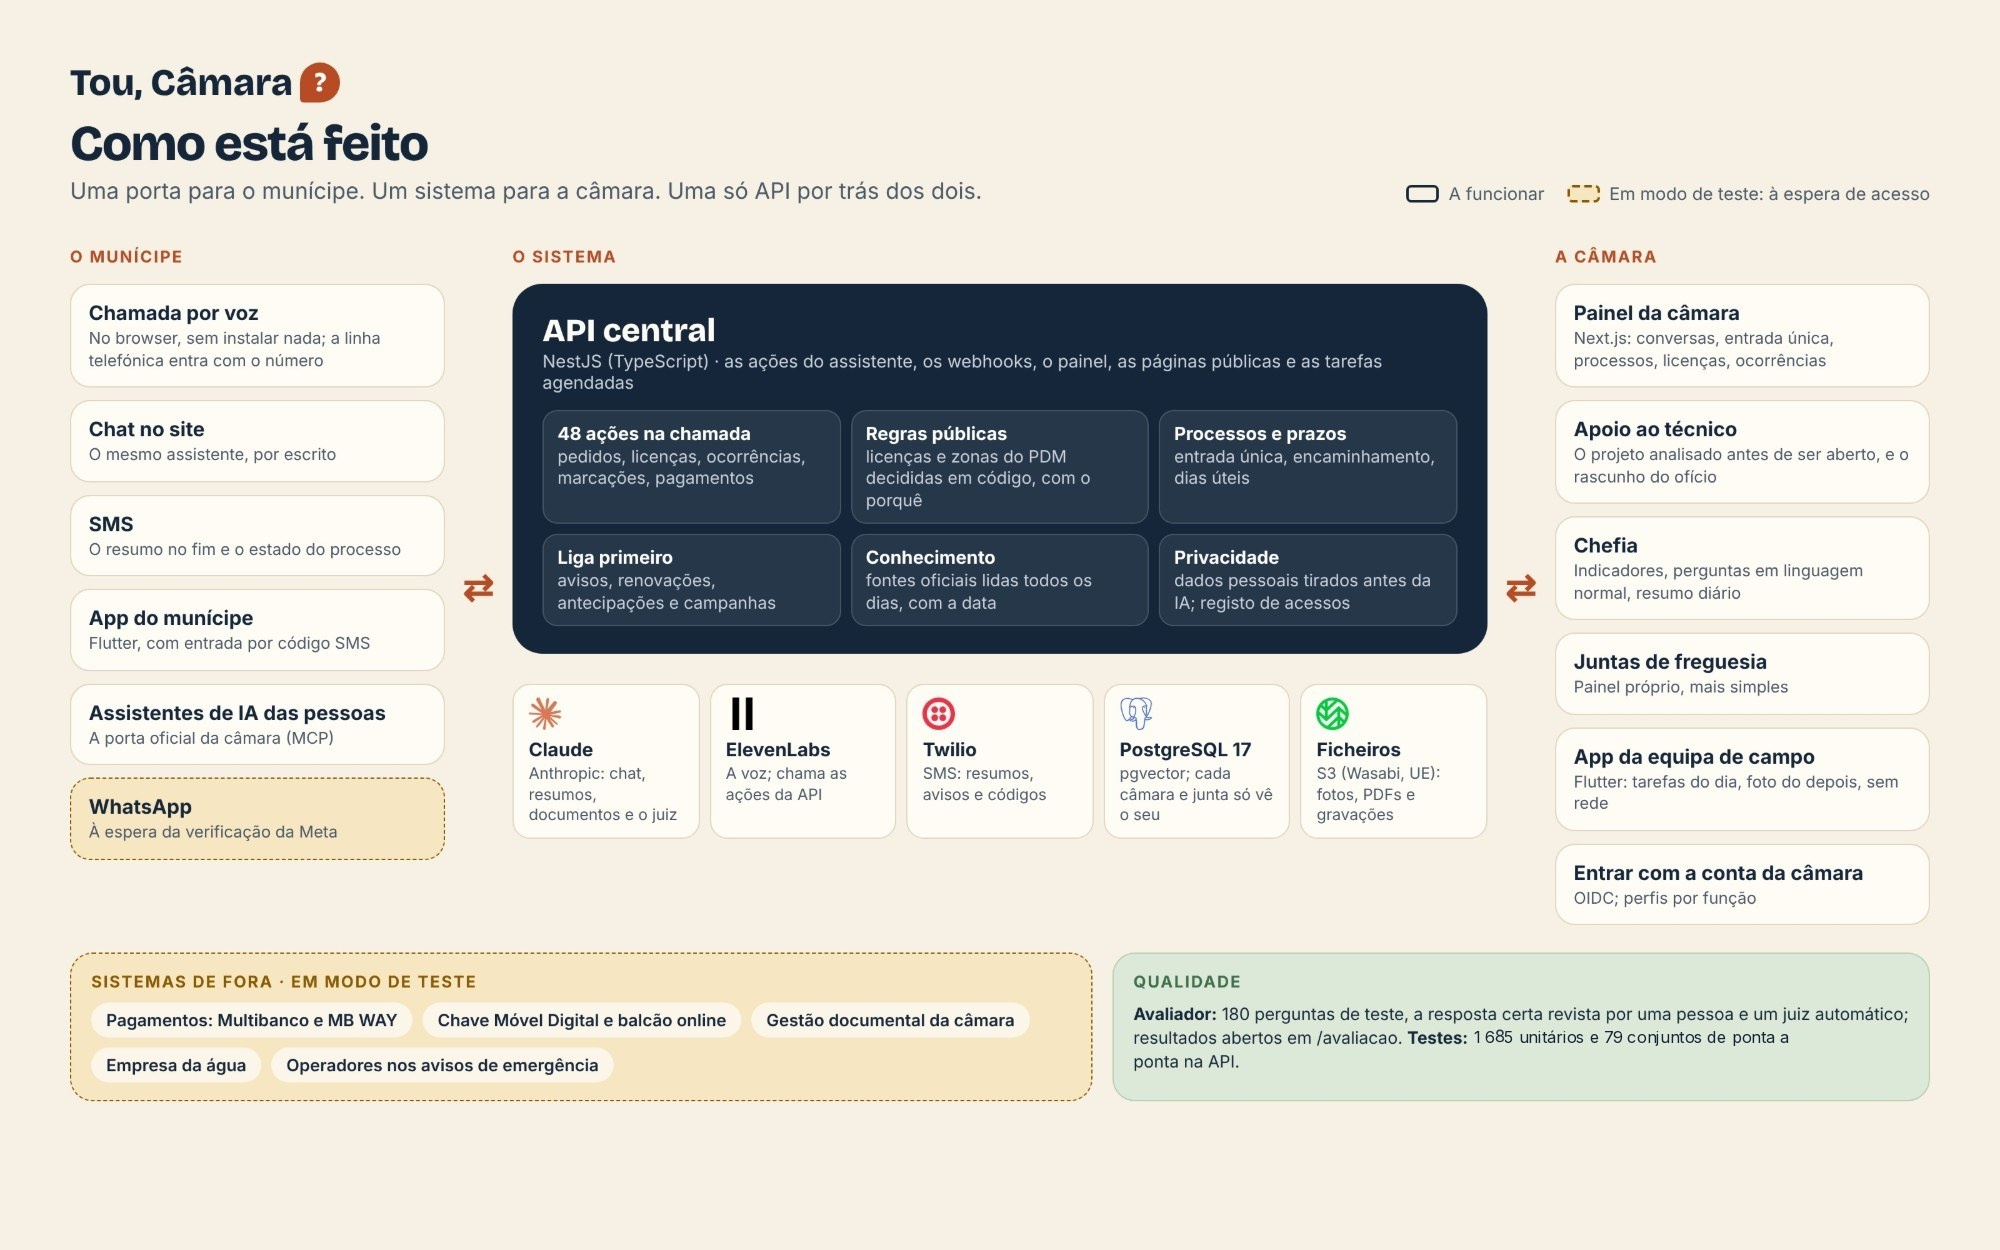
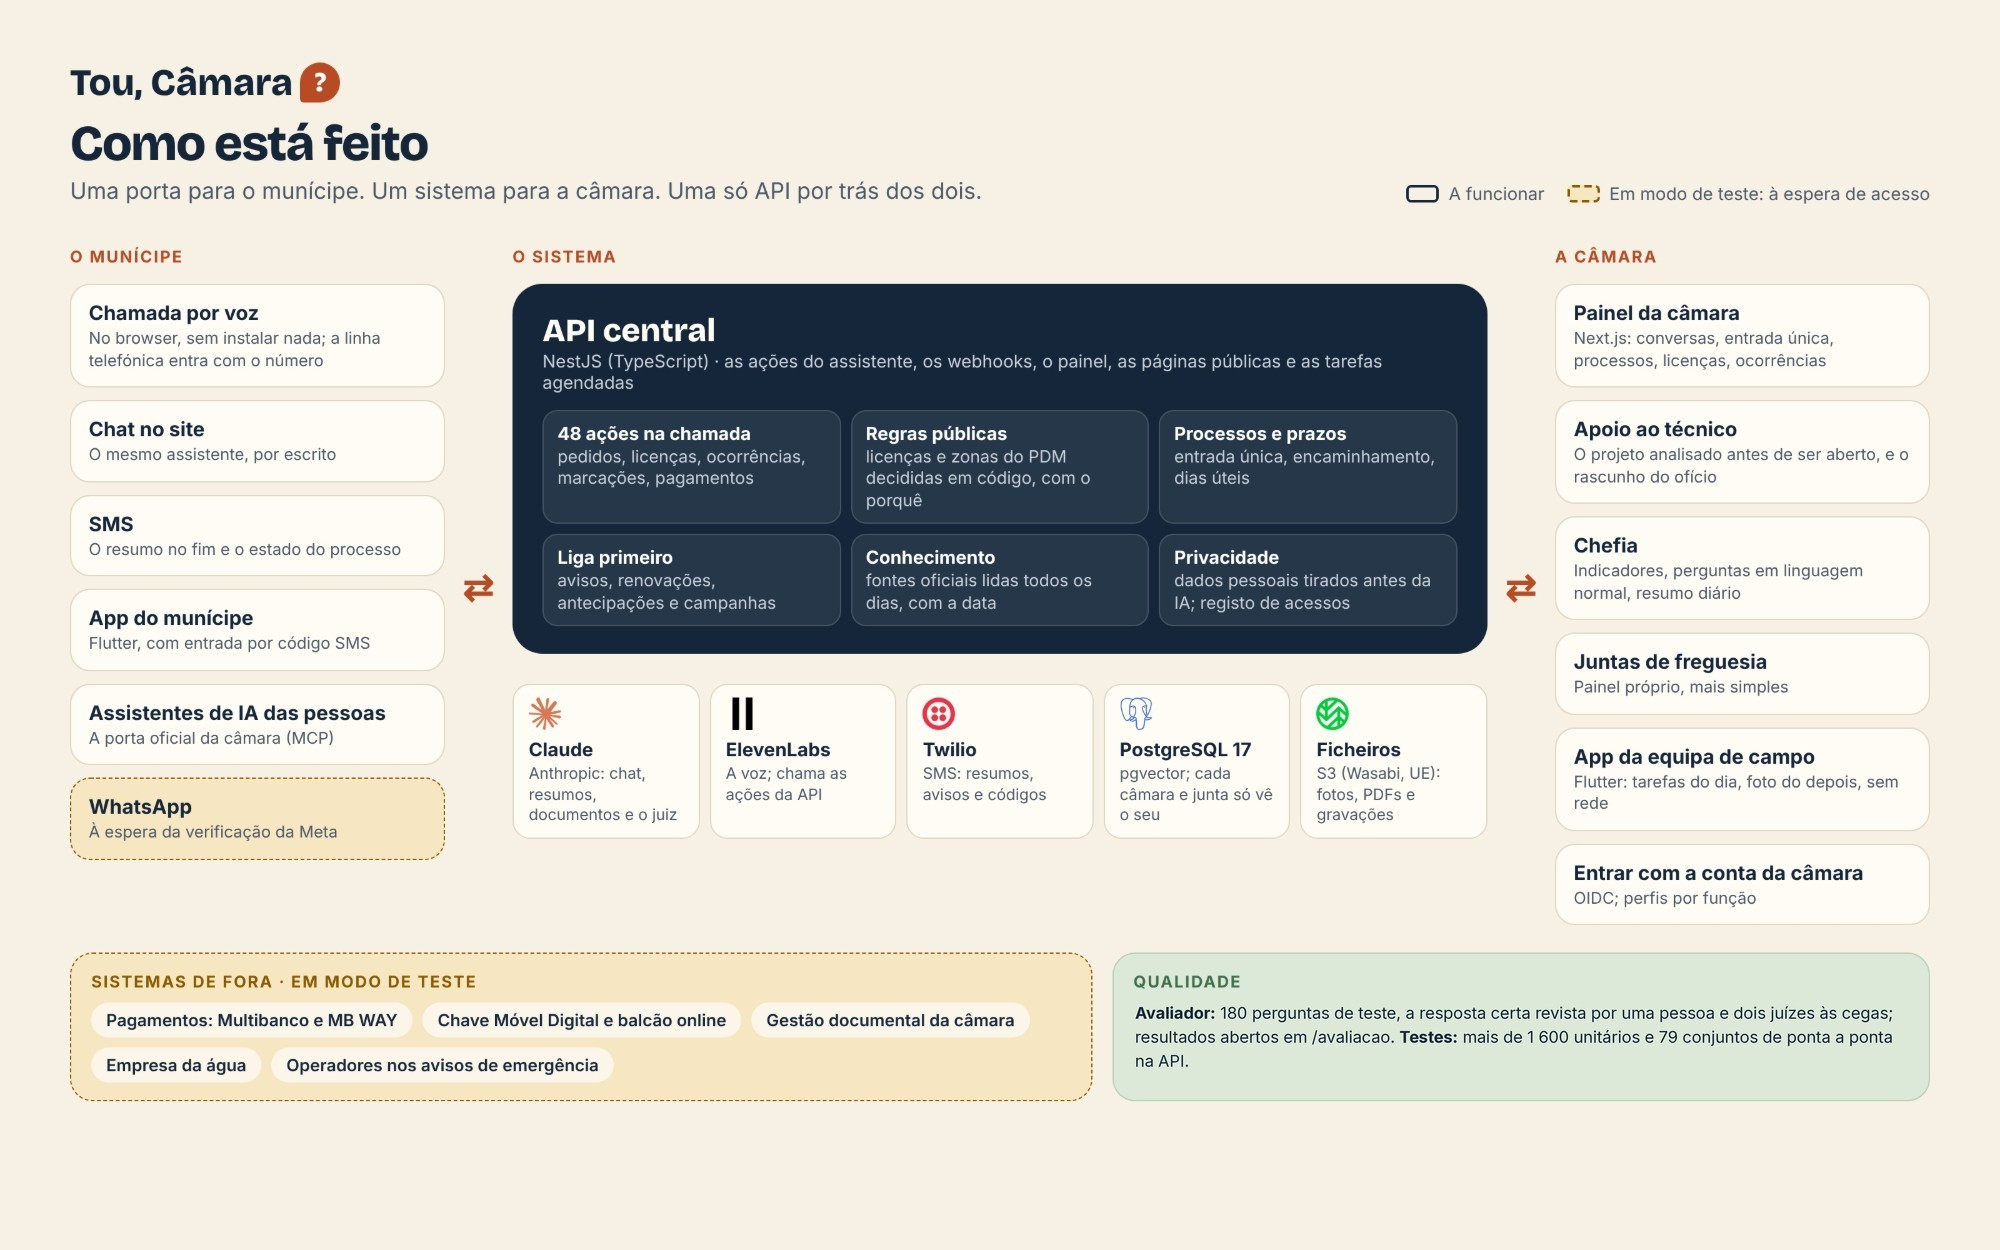
README: mais de 1 600 testes e dois juízes, também no diagrama

Changed region(s): [[0.558, 0.8112, 0.961, 0.8736]]

diff --git a/README.md b/README.md
@@ -16,7 +16,7 @@
 <p align="center">
   <a href="https://toucamara.descortina.pt"><img alt="em produção: toucamara.descortina.pt" src="https://img.shields.io/badge/em%20produ%C3%A7%C3%A3o-toucamara.descortina.pt-3F6E4A?style=flat-square"></a>
   <img alt="Hack4Guimarães 2035: Falar com a câmara sem burocracia" src="https://img.shields.io/badge/Hack4Guimar%C3%A3es%202035-Falar%20com%20a%20c%C3%A2mara%20sem%20burocracia-15263B?style=flat-square">
-  <img alt="testes: 1 685 unitários · 79 de ponta a ponta" src="https://img.shields.io/badge/testes-1%20685%20unit%C3%A1rios%20%C2%B7%2079%20de%20ponta%20a%20ponta-3F6E4A?style=flat-square">
+  <img alt="testes: mais de 1 600 unitários · 79 de ponta a ponta" src="https://img.shields.io/badge/testes-mais%20de%201%20600%20unit%C3%A1rios%20%C2%B7%2079%20de%20ponta%20a%20ponta-3F6E4A?style=flat-square">
   <img alt="acessibilidade: WCAG 2.1 AA · 0 erros em 42 páginas" src="https://img.shields.io/badge/acessibilidade-WCAG%202.1%20AA%20%C2%B7%200%20erros%20em%2042%20p%C3%A1ginas-3F6E4A?style=flat-square">
   <img alt="avaliador: 180 perguntas com resposta revista" src="https://img.shields.io/badge/avaliador-180%20perguntas%20com%20resposta%20revista-B84A24?style=flat-square">
   <br>
@@ -195,7 +195,7 @@ Sem chaves de IA, de voz ou de SMS a API arranca na mesma; os SMS para os telefo
 
 | Parte | Testes |
 | --- | --- |
-| API | **1 685 testes unitários** (Jest) em 146 ficheiros, a passar |
+| API | **Mais de 1 600 testes unitários** (Jest) em 149 ficheiros, a passar |
 | Ponta a ponta | **79 conjuntos** de testes da API contra um PostgreSQL real (`npm run test:e2e`), incluindo a preparação da demonstração, que tem de dar os mesmos números quando corre duas vezes |
 | Assistente | O avaliador: 180 perguntas, resposta certa revista por uma pessoa, dois juízes às cegas e um terceiro a desempatar; 113 das 180 saem a saber o que fazer. Resultados em [/avaliacao](https://toucamara.descortina.pt/avaliacao) |
 | Acessibilidade | Playwright com axe-core: 0 erros automáticos em 42 páginas, WCAG 2.1 AA ([`docs/ACESSIBILIDADE.md`](docs/ACESSIBILIDADE.md), com o que ainda falta) |
@@ -207,7 +207,7 @@ Sem chaves de IA, de voz ou de SMS a API arranca na mesma; os SMS para os telefo
 code/api/        API central (NestJS): ações do assistente, webhooks, chat, painel, páginas públicas, tarefas
 code/web/        Painel da câmara, chat, chamada no browser (/ligar) e as páginas dos links do SMS (Next.js)
 code/mobile/     App do munícipe e app da equipa de campo (Flutter)
-code/avaliador/  As perguntas de teste, a resposta certa e o juiz
+code/avaliador/  As perguntas de teste, a resposta certa e os juízes
 env/             Docker para desenvolvimento e testes
 docs/            Acessibilidade, mapas, credenciais externas e as regras dos projetos para os técnicos validarem
 ```
@@ -233,7 +233,7 @@ Quase tudo o que falta é acesso, não código: o fluxo já existe e está à es
 | O que falta | Já existe | Para fechar |
 | --- | --- | --- |
 | Sem número de telefone português | Assistente de voz, início e fim da chamada, chamadas feitas pela câmara | Comprar o número e ligá-lo ao assistente |
-| Taxa de acerto medida só com perguntas de teste | Avaliador com 180 perguntas e juiz | Medir com chamadas reais no piloto |
+| Taxa de acerto medida só com perguntas de teste | Avaliador com 180 perguntas e dois juízes às cegas | Medir com chamadas reais no piloto |
 | Regras dos projetos de obras escritas por nós | As regras, com o artigo de cada uma ([`docs/VALIDAR_REGRAS_PROJETOS.md`](docs/VALIDAR_REGRAS_PROJETOS.md)) | Os técnicos da câmara validarem |
 | Sistemas da câmara simulados | Ligações à gestão documental, aos pagamentos e à empresa da água, em modo de teste | Saber que sistemas a câmara usa e ter acesso; contrato com um fornecedor de pagamentos |
 | Chave Móvel Digital simulada | Entregar o pedido em nome da pessoa, de ponta a ponta | Credenciação na AMA e acesso ao balcão online |
